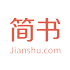
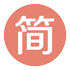
navigation

diff --git a/src/views/home/components/UrlList.vue b/src/views/home/components/UrlList.vue
@@ -19,11 +19,11 @@
           <i :class="item.icon"></i>
           <span>{{ item.label }}</span>
         </div>
-        <Card v-for="ins in item.list" :key="ins.label" class="list">
-          <a :href="ins.link" target="_blank">
-            <div>{{ ins.label }}</div>
-          </a>
-        </Card>
+        <div class="card">
+          <div v-for="ins in item.list" :key="ins.label" class="list">
+            <a :href="ins.link" target="_blank">{{ ins.label }}</a>
+          </div>
+        </div>
       </div>
     </div>
   </div>
@@ -847,11 +847,16 @@ export default {
 
 <style lang="scss" scoped>
 .url-list {
-  width: 1200px;
-  margin: 0 auto;
-  margin-top: 60px;
-  border-radius: 30px;
+  background: rgba(255, 255, 255, 0.96);
+  position: relative;
+  box-sizing: border-box;
   .frequently {
+    width: 1200px;
+    left: 0;
+    right: 0;
+    margin: auto;
+    position: absolute;
+    top: -45px;
     display: flex;
     justify-content: center;
     .frequently-card {
@@ -875,20 +880,24 @@ export default {
   }
 
   .site {
-    margin-top: 30px;
-
+    width: 1200px;
+    margin: 0 auto;
+    padding-top: 50px;
+    display: flex;
+    flex-wrap: wrap;
     .site-classify {
-      width: 100%;
-      padding: 20px;
-      margin-bottom: 10px;
-      border-radius: 30px;
-      background: rgba(255, 255, 255, 0.9);
-
+      box-sizing: border-box;
+      width: 400px;
+      padding: 10px;
+      &:hover {
+        transition: box-shadow 0.5s;
+        box-shadow: 0 26px 40px -24px rgba(0, 36, 100, 0.5);
+      }
       .classify-title {
         height: 40px;
         line-height: 40px;
         font-weight: 600;
-        font-size: 22px;
+        font-size: 18px;
         border-bottom: 1px dashed #999999;
         margin-bottom: 10px;
         color: #2d8cf0;
@@ -897,16 +906,18 @@ export default {
         }
       }
 
-      .list {
-        display: inline-block;
-        margin: 5px;
-        cursor: pointer;
-        width: 183px;
-        height: 60px;
-        a,
-        /deep/.ivu-card-body {
-          font-size: 16px;
-          color: #666666;
+      .card {
+        .list {
+          display: inline-block;
+          width: 126px;
+          height: 30px;
+          a {
+            color: #666666;
+            &:hover {
+              color: #19be6b;
+              text-decoration: underline;
+            }
+          }
         }
       }
     }

diff --git a/src/views/home/components/Header.vue b/src/views/home/components/Header.vue
@@ -2,7 +2,7 @@
   <div class="header">
     <div class="content">
       <div class="icon" @click="goHome">
-<!--        <img src="~_img/home/logo.png" alt="" />-->
+        <img src="~_img/home/logo.png" alt="" />
       </div>
       <div class="tab">
         <div :class="{ item: true, active: isTab }" @click="goHome">首页</div>
@@ -45,7 +45,7 @@ export default {
         curMinute: "",
         curSec: ""
       },
-      marqueeInfo: "开心快乐每一天！"
+      marqueeInfo: ""
     };
   },
   computed: {
@@ -102,9 +102,13 @@ export default {
       }, 1000);
     },
     getMarqueeInfo() {
-      marqueeInfo().then(res => {
-        this.marqueeInfo = `${res.hitokoto} --- 《${res.from}》`
-      });
+      marqueeInfo()
+        .then(res => {
+          this.marqueeInfo = `${res.hitokoto}--《${res.from}》`;
+        })
+        .catch(() => {
+          this.marqueeInfo = "开心快乐每一天！";
+        });
     }
   },
   filters: {
@@ -137,7 +141,7 @@ export default {
 
 <style lang="scss" scoped>
 .header {
-  background: rgba(255, 255, 255, 0.7);
+  background: rgba(255, 255, 255, 0.8);
   height: 60px;
   box-shadow: rgba(228, 228, 228, 0.5) 0px 2px 3px;
   .content {
@@ -149,10 +153,10 @@ export default {
     align-items: center;
 
     .icon {
-      height: 100%;
+      padding-top: 6px;
       img {
-        width: 229px;
-        height: 60px;
+        width: 40px;
+        height: 40px;
       }
     }
     .tab {

diff --git a/src/views/home/Home.vue b/src/views/home/Home.vue
@@ -3,6 +3,12 @@
     <Header />
     <search />
     <url-list />
+    <div class="footer">
+      <div>
+        江城如画里，山晓望晴空。 两水夹明镜，双桥落彩虹。
+        人烟寒橘柚，秋色老梧桐。
+      </div>
+    </div>
   </div>
 </template>
 
@@ -31,5 +37,18 @@ export default {
   background: url("https://uploadbeta.com/api/pictures/random/?key=BingEverydayWallpaperPicture")
     no-repeat;
   background-size: percentage;
+
+  .footer {
+    background: rgba(0, 0, 0, 0.8);
+    div {
+      height: 100px;
+      line-height: 100px;
+      text-align: center;
+      color: #b8b8b8;
+      font-size: 18px;
+      width: 1200px;
+      margin: 0 auto;
+    }
+  }
 }
 </style>

diff --git a/src/views/home/components/Search.vue b/src/views/home/components/Search.vue
@@ -100,6 +100,7 @@ export default {
   justify-content: center;
   align-items: flex-end;
   height: 180px;
+  margin-bottom: 100px;
   .img {
     width: 150px;
     height: 50px;
